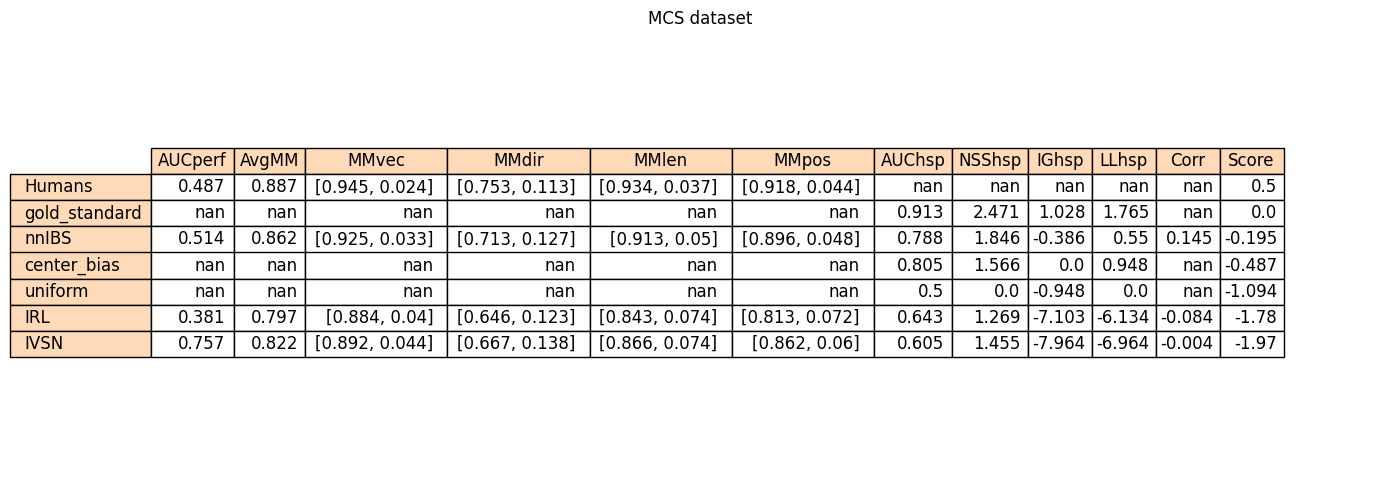
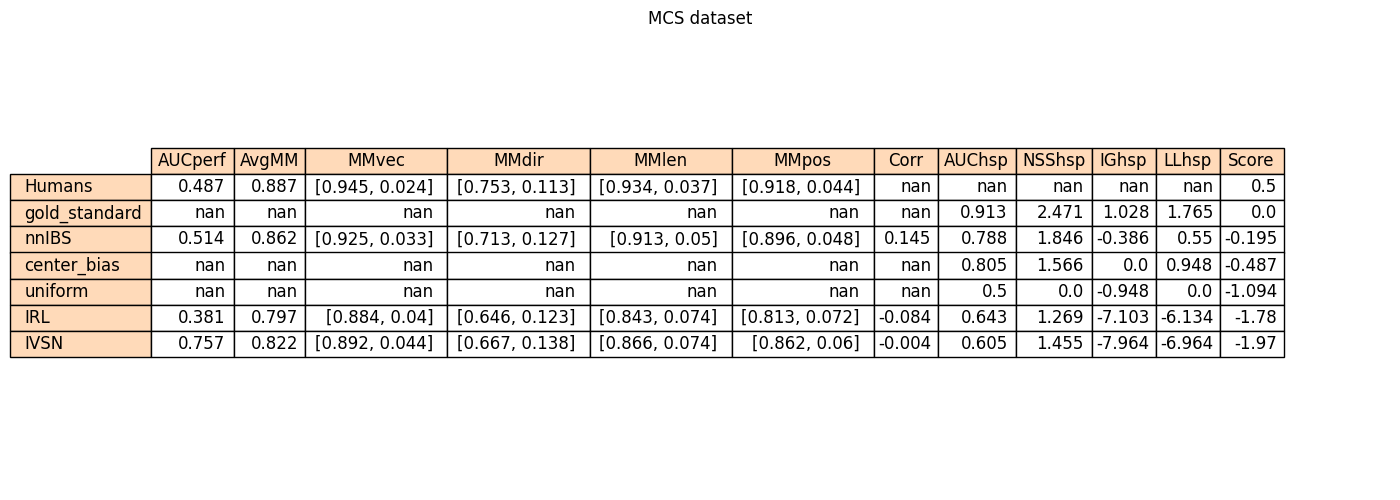
(Results) Corr before hsp in tables

Changed region(s): [[0.6143, 0.3, 0.8907, 0.72]]

diff --git a/Metrics/main.py b/Metrics/main.py
@@ -63,12 +63,10 @@ def main(datasets, models, compute_cumulative_performance, compute_multimatch, c
         multimatch.plot(save_path=dataset_results_dir)
 
         dataset_results_table = utils.create_table(dataset_results)
-        dataset_results_table.to_csv(dataset_name + '.csv', index=False)
         utils.plot_table(dataset_results_table, title=dataset_name + ' dataset', save_path=dataset_results_dir, filename='Table.png')
 
     if compute_cumulative_performance and compute_multimatch and compute_human_scanpath_prediction:
         final_table = utils.average_results(datasets_results, save_path=constants.RESULTS_PATH, filename='Scores.json')
-        final_table.to_csv('Ranking.csv', index=False)
         utils.plot_table(final_table, title='Ranking', save_path=constants.RESULTS_PATH, filename='Ranking.png')
 
 if __name__ == "__main__":
